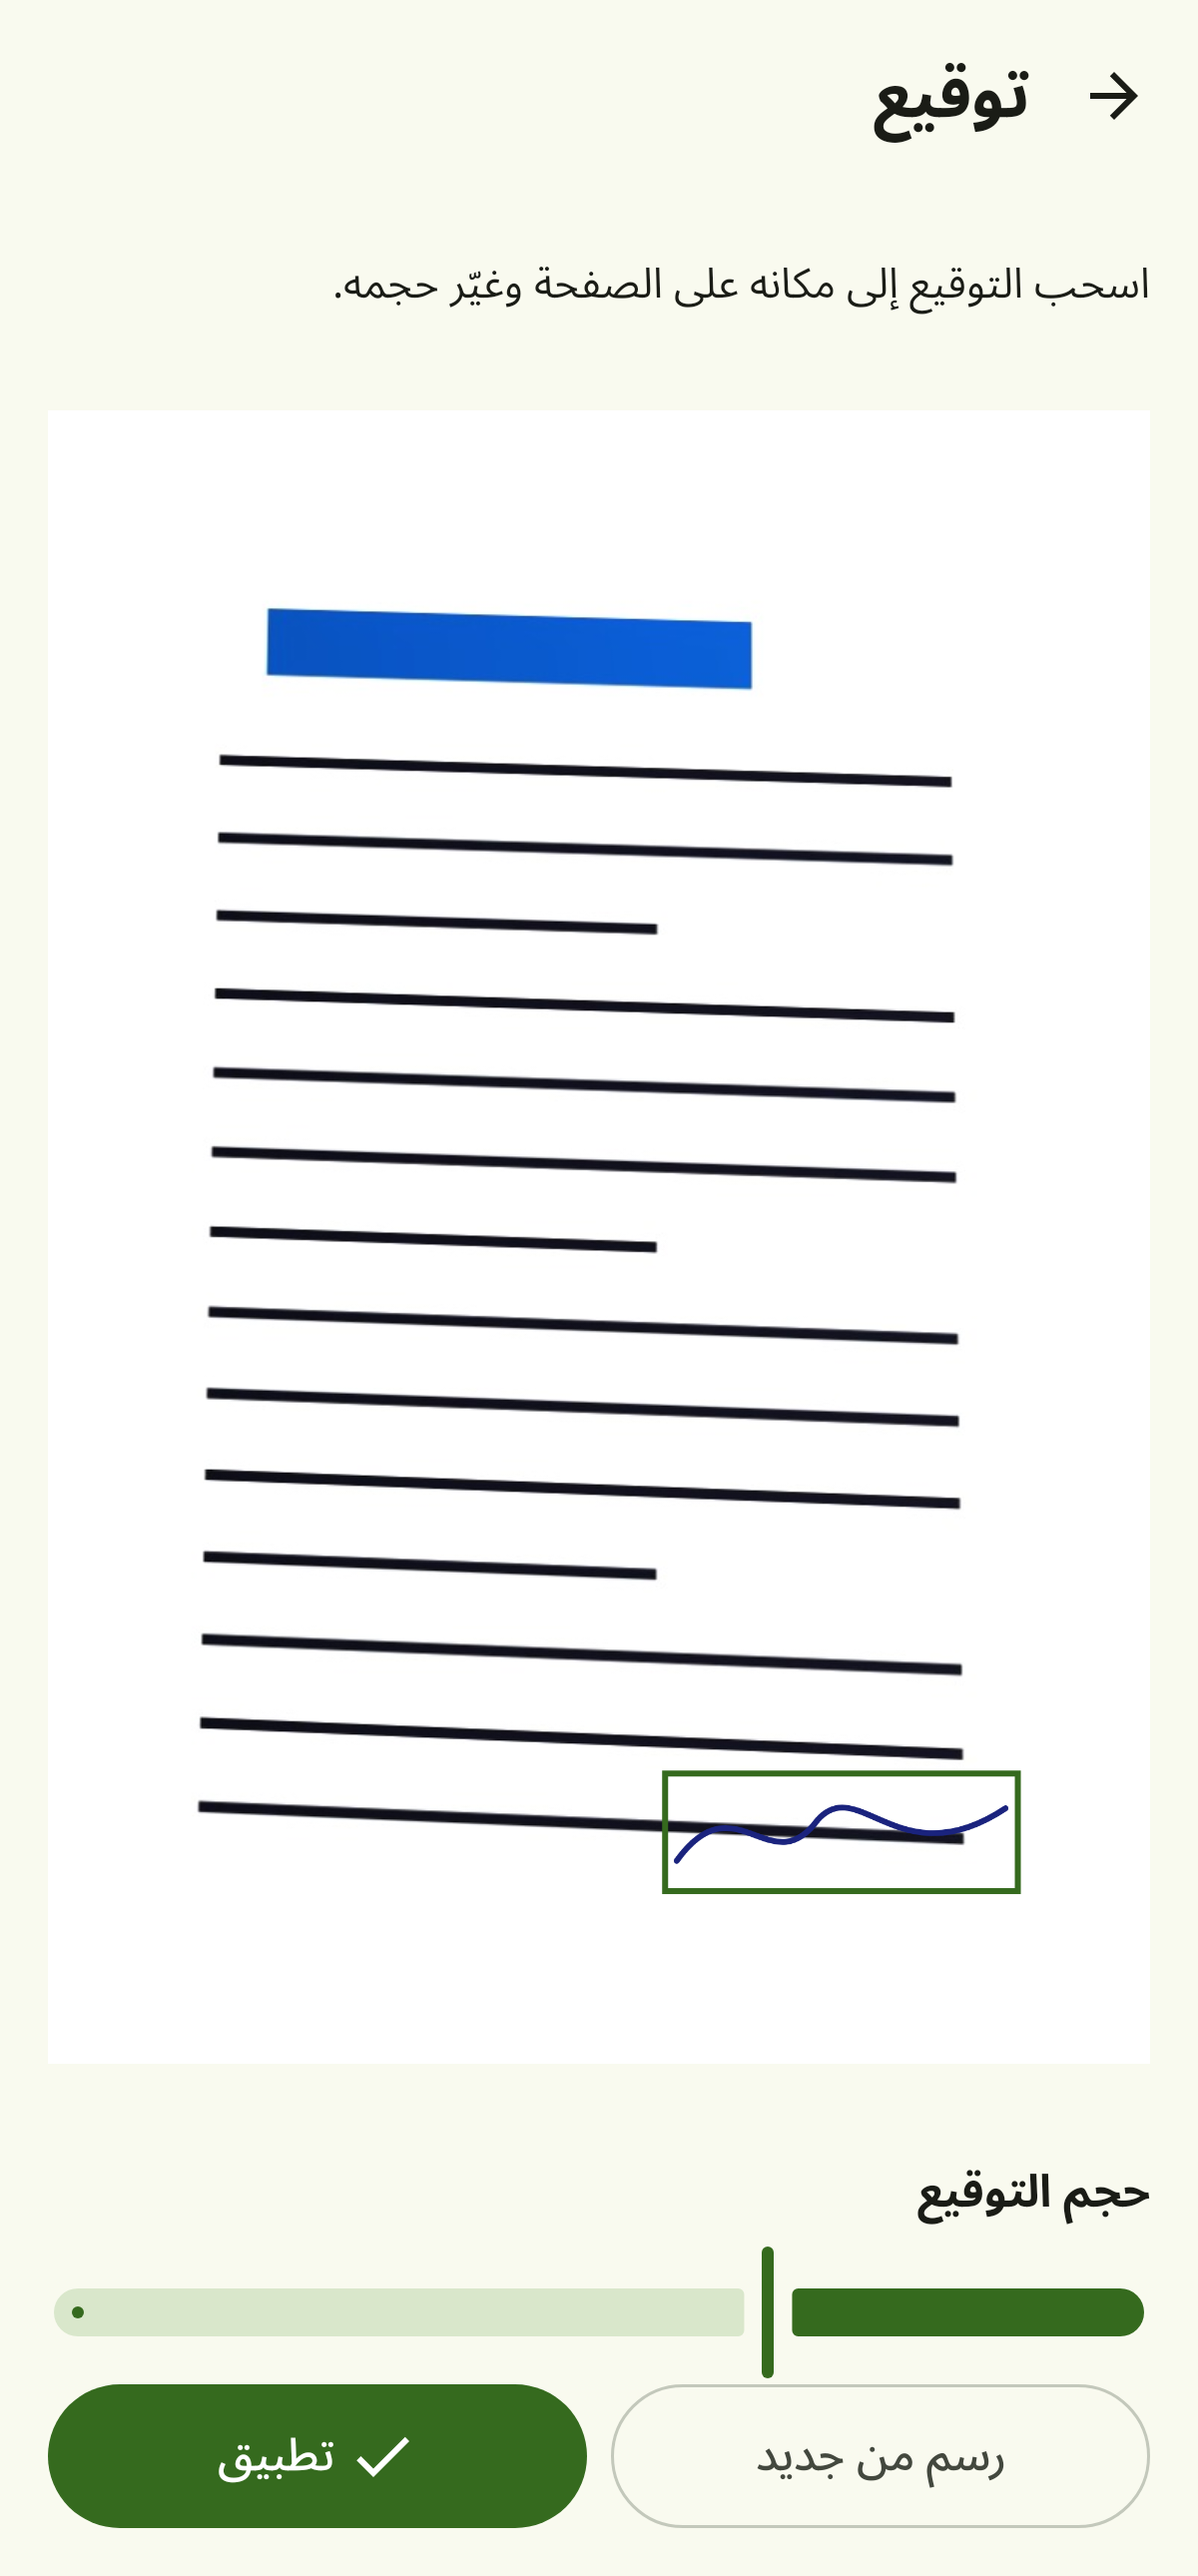
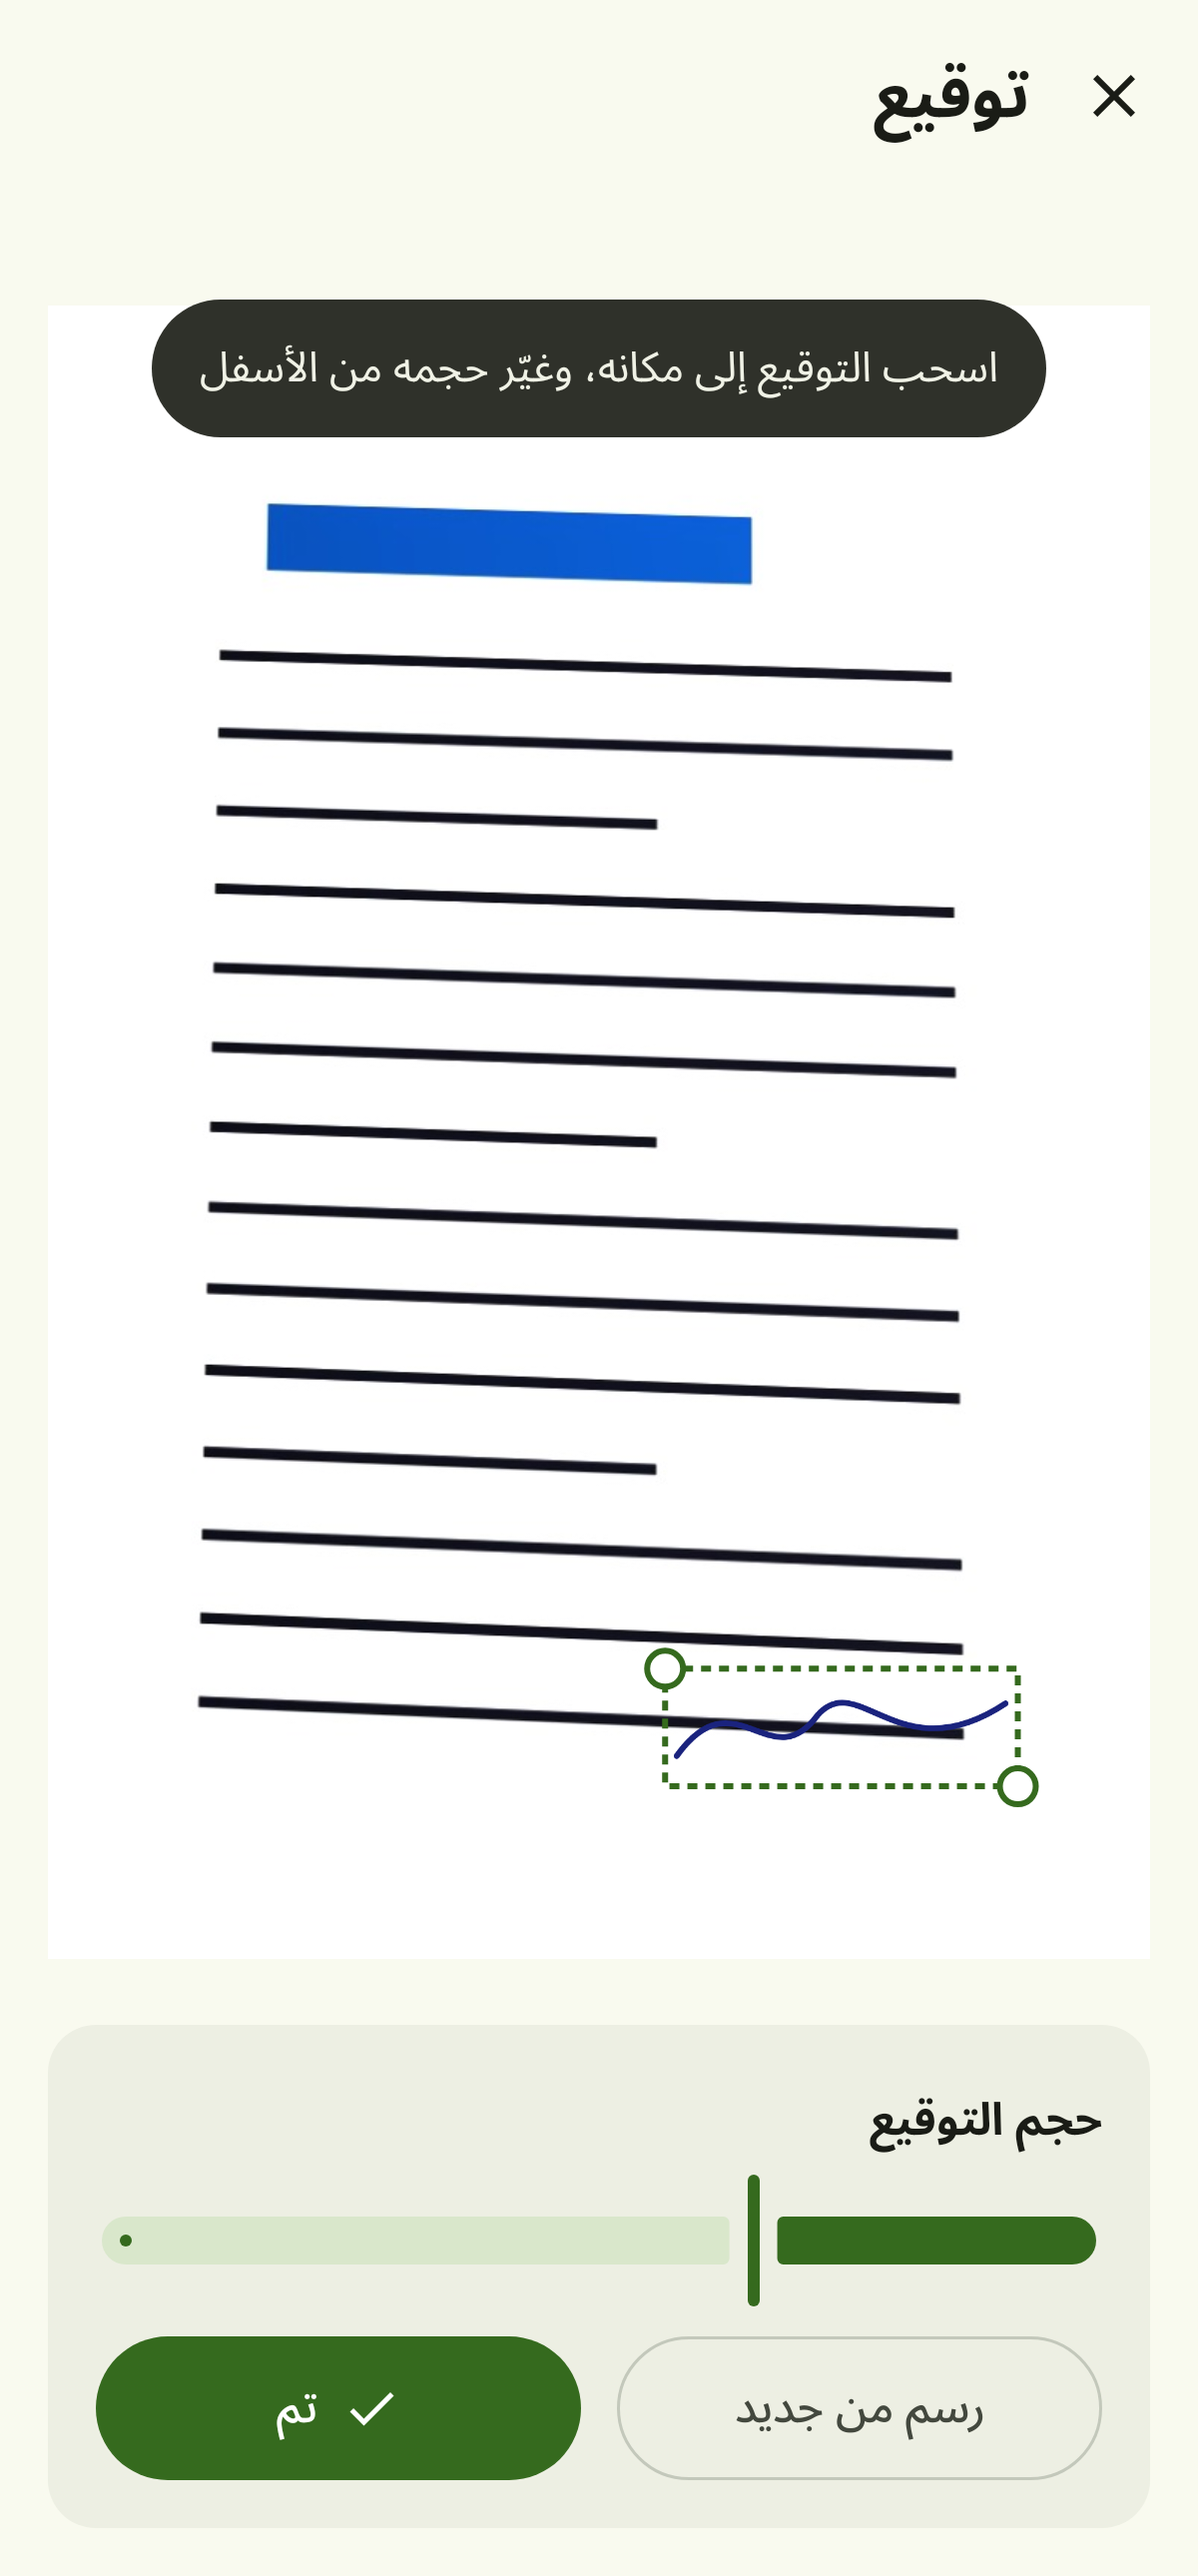
Design step 10: signature with close, hint pill, dashed frame, size panel and button pair

Changed region(s): [[0.1233, 0.093, 0.8942, 0.7442], [0.0308, 0.7752, 0.9558, 0.9922], [0.8942, 0.031, 0.9558, 0.062]]

diff --git a/app/src/main/java/com/fastkiwi/scan/ui/SignatureScreen.kt b/app/src/main/java/com/fastkiwi/scan/ui/SignatureScreen.kt
@@ -46,6 +46,12 @@ import androidx.compose.runtime.remember
 import androidx.compose.runtime.setValue
 import androidx.compose.ui.Alignment
 import androidx.compose.ui.Modifier
+import androidx.compose.foundation.layout.height
+import androidx.compose.foundation.layout.heightIn
+import androidx.compose.foundation.layout.size
+import androidx.compose.material3.Surface
+import androidx.compose.material3.TextButton
+import com.fastkiwi.scan.ui.theme.Dimens
 import androidx.compose.ui.geometry.Offset
 import androidx.compose.ui.graphics.Color
 import androidx.compose.ui.graphics.ImageBitmap
@@ -84,12 +90,7 @@ fun SignatureScreen(vm: AppViewModel, docId: String, pageId: String) {
     }
     val page = vm.doc(docId)?.pages?.firstOrNull { it.id == pageId }
 
-    Scaffold(topBar = {
-        TopAppBar(
-            navigationIcon = { IconButton(onClick = { vm.back() }) { Icon(Icons.AutoMirrored.Filled.ArrowBack, stringResource(R.string.back)) } },
-            title = { Text(stringResource(R.string.signature)) },
-        )
-    }) { padding ->
+    Scaffold(topBar = { KiwiTopBar(stringResource(R.string.signature), NavIcon.CLOSE, { vm.back() }) }) { padding ->
         Column(Modifier.padding(padding).fillMaxSize().padding(16.dp)) {
             if (drawing || signature == null) {
                 SignaturePad(onCancel = if (signature != null) ({ drawing = false }) else null) { bmp ->
@@ -148,12 +149,13 @@ private fun SignaturePad(onCancel: (() -> Unit)?, onSave: (Bitmap) -> Unit) {
             for (s in strokes + listOf(current)) drawPath(pathOf(s), ink, style = Stroke(strokePx, cap = StrokeCap.Round, join = StrokeJoin.Round))
         }
     }
-    Row(Modifier.fillMaxWidth(), horizontalArrangement = Arrangement.spacedBy(12.dp)) {
-        OutlinedButton(onClick = { strokes.clear() }, modifier = Modifier.weight(1f)) { Text(stringResource(R.string.signature_clear)) }
-        if (onCancel != null) OutlinedButton(onClick = onCancel, modifier = Modifier.weight(1f)) { Text(stringResource(R.string.cancel)) }
+    // Footer: secondary «مسح», tertiary «إلغاء», primary «حفظ» at the end.
+    Row(Modifier.fillMaxWidth(), horizontalArrangement = Arrangement.spacedBy(Dimens.s), verticalAlignment = Alignment.CenterVertically) {
+        OutlinedButton(onClick = { strokes.clear() }, modifier = Modifier.weight(1f).heightIn(min = Dimens.button)) { Text(stringResource(R.string.signature_clear)) }
+        if (onCancel != null) TextButton(onClick = onCancel, modifier = Modifier.heightIn(min = Dimens.button)) { Text(stringResource(R.string.cancel)) }
         Button(onClick = {
             renderSignature(strokes, padSize, strokePx * 2f, ink)?.let(onSave)
-        }, enabled = strokes.isNotEmpty(), modifier = Modifier.weight(1f)) { Text(stringResource(R.string.save)) }
+        }, enabled = strokes.isNotEmpty(), modifier = Modifier.weight(1f).heightIn(min = Dimens.button)) { Text(stringResource(R.string.save)) }
     }
 }
 
@@ -210,7 +212,6 @@ private fun ColumnScope.Placement(vm: AppViewModel, docId: String, pageId: Strin
     val primary = MaterialTheme.colorScheme.primary
     val placeDesc = stringResource(R.string.signature_place_desc)
 
-    Text(stringResource(R.string.signature_place_hint), style = MaterialTheme.typography.bodyMedium)
     Box(Modifier.weight(1f).fillMaxWidth().padding(vertical = 12.dp), contentAlignment = Alignment.Center) {
         val img = pageImg
         if (img == null) {
@@ -240,24 +241,40 @@ private fun ColumnScope.Placement(vm: AppViewModel, docId: String, pageId: Strin
                     val l = ox + cx * dw - sw / 2
                     val t = oy + cy * dh - sh / 2
                     drawImage(signature, dstOffset = IntOffset(l.toInt(), t.toInt()), dstSize = IntSize(sw.toInt(), sh.toInt()))
-                    drawRect(primary, topLeft = Offset(l, t), size = androidx.compose.ui.geometry.Size(sw, sh), style = Stroke(2.dp.toPx()))
+                    // Selected stamp: dashed primary frame with two resize knobs.
+                    drawRect(
+                        primary, topLeft = Offset(l, t), size = androidx.compose.ui.geometry.Size(sw, sh),
+                        style = Stroke(2.dp.toPx(), pathEffect = androidx.compose.ui.graphics.PathEffect.dashPathEffect(floatArrayOf(10f, 8f))),
+                    )
+                    drawCircle(Color.White, 6.dp.toPx(), Offset(l, t)); drawCircle(primary, 6.dp.toPx(), Offset(l, t), style = Stroke(2.dp.toPx()))
+                    drawCircle(Color.White, 6.dp.toPx(), Offset(l + sw, t + sh)); drawCircle(primary, 6.dp.toPx(), Offset(l + sw, t + sh), style = Stroke(2.dp.toPx()))
                 }
             }
         }
+        HintPill(stringResource(R.string.signature_place_hint), Modifier.align(Alignment.TopCenter).padding(Dimens.s))
     }
-    Text(stringResource(R.string.signature_size), style = MaterialTheme.typography.titleSmall)
-    Slider(value = width, onValueChange = { width = it }, valueRange = 0.12f..0.7f)
-    Row(Modifier.fillMaxWidth(), horizontalArrangement = Arrangement.spacedBy(8.dp)) {
-        OutlinedButton(onClick = onRedraw, modifier = Modifier.weight(1f)) { Text(stringResource(R.string.signature_redraw)) }
-        if (hasStamps) {
-            OutlinedButton(onClick = {
-                vm.editPage(docId, pageId) { it.copy(stamps = emptyList()) }
-                vm.back()
-            }, modifier = Modifier.weight(1f)) { Text(stringResource(R.string.signature_remove)) }
+    Surface(color = MaterialTheme.colorScheme.surfaceContainer, shape = MaterialTheme.shapes.large, modifier = Modifier.fillMaxWidth()) {
+        Column(Modifier.padding(Dimens.l)) {
+            Row(verticalAlignment = Alignment.CenterVertically) {
+                Text(stringResource(R.string.signature_size), style = MaterialTheme.typography.titleSmall, modifier = Modifier.weight(1f))
+                if (hasStamps) {
+                    TextButton(onClick = {
+                        vm.editPage(docId, pageId) { it.copy(stamps = emptyList()) }
+                        vm.back()
+                    }, modifier = Modifier.heightIn(min = Dimens.button)) { Text(stringResource(R.string.signature_remove), color = MaterialTheme.colorScheme.error) }
+                }
+            }
+            Slider(value = width, onValueChange = { width = it }, valueRange = 0.12f..0.7f)
+            Spacer(Modifier.height(Dimens.s))
+            ButtonPair(
+                secondary = { m -> OutlinedButton(onClick = onRedraw, modifier = m) { Text(stringResource(R.string.signature_redraw)) } },
+                primary = { m ->
+                    Button(onClick = {
+                        vm.editPage(docId, pageId) { it.copy(stamps = it.stamps + Stamp(cx, cy, width)) }
+                        vm.back()
+                    }, modifier = m) { Icon(KiwiIcons.check(), null, Modifier.size(20.dp)); Spacer(Modifier.width(Dimens.s)); Text(stringResource(R.string.done)) }
+                },
+            )
         }
-        Button(onClick = {
-            vm.editPage(docId, pageId) { it.copy(stamps = it.stamps + Stamp(cx, cy, width)) }
-            vm.back()
-        }, modifier = Modifier.weight(1f)) { Icon(Icons.Filled.Check, null); Text(" " + stringResource(R.string.apply)) }
     }
 }
